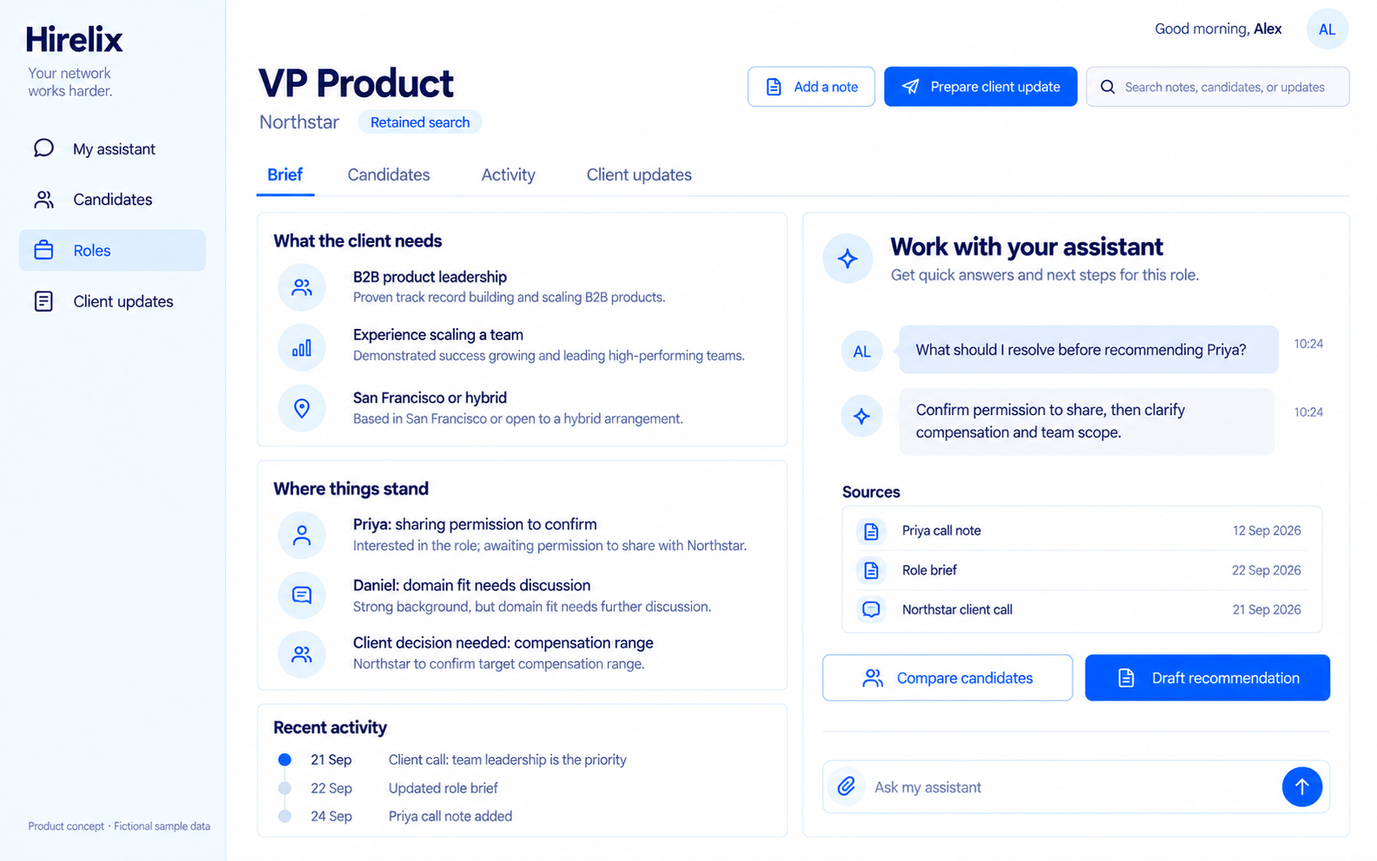
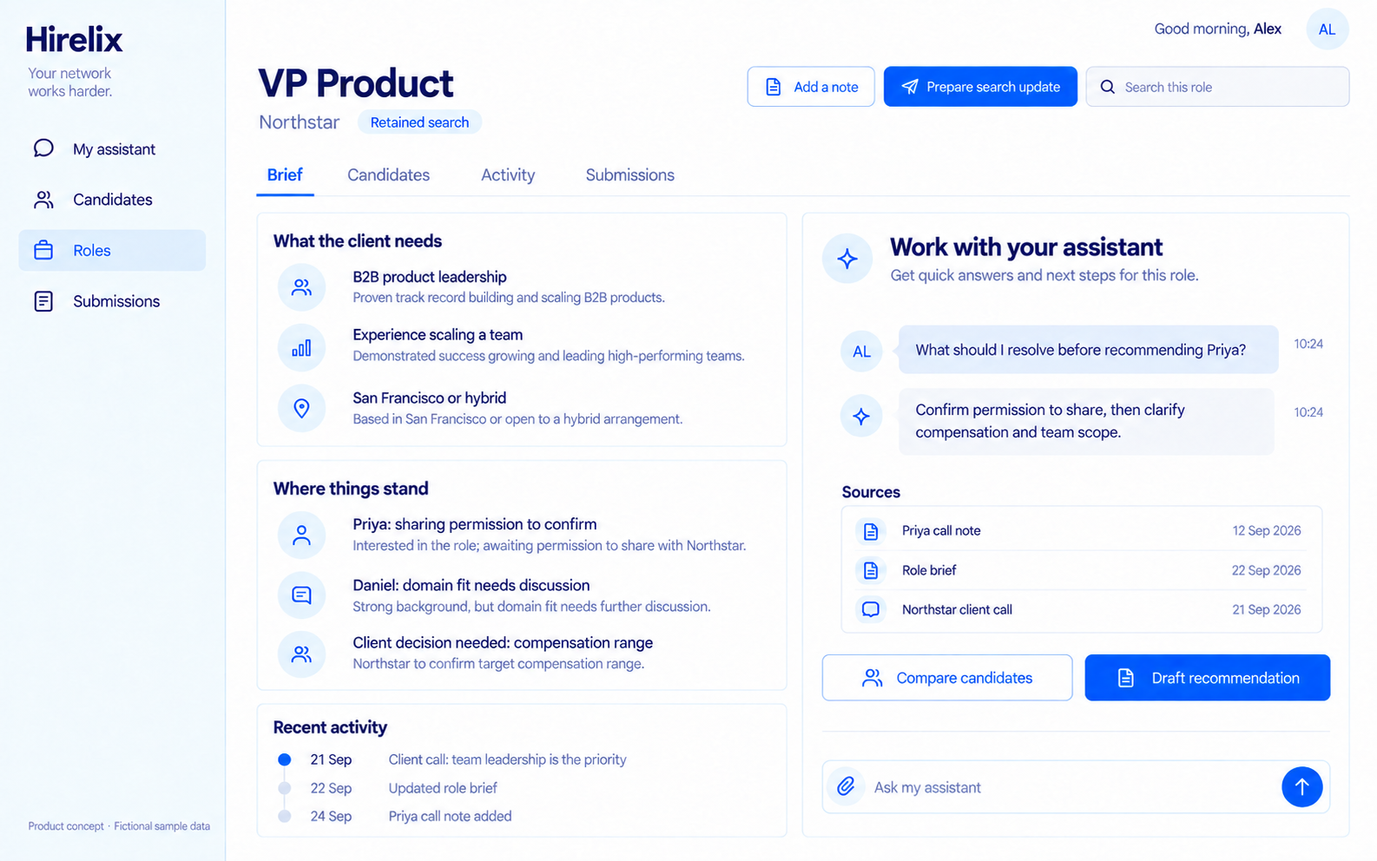
明确候选人推荐入口与职位进展汇报归属

diff --git a/docs/product/overseas-recruiter-agent-v1/index.html b/docs/product/overseas-recruiter-agent-v1/index.html
@@ -1,11 +1,11 @@
 <!doctype html><html lang="zh-CN"><head><meta charset="UTF-8"><meta name="viewport" content="width=device-width, initial-scale=1"><title>Hirelix 产品说明书 · 专业猎头的私人 Agent</title><style>
 :root{--navy:#12213b;--blue:#145cff;--muted:#5a6c84;--line:#dfe7f1;--canvas:#f4f7fb}*{box-sizing:border-box}html{scroll-behavior:smooth;scroll-padding-top:28px}body{margin:0;color:var(--navy);background:var(--canvas);font:16px/1.9 -apple-system,BlinkMacSystemFont,"Segoe UI","PingFang SC","Microsoft YaHei",sans-serif}a{color:var(--blue);text-underline-offset:3px;overflow-wrap:anywhere}nav{position:fixed;inset:0 auto 0 0;width:282px;background:#fff;border-right:1px solid var(--line);padding:26px 22px;overflow:auto}nav .brand{font-size:27px;font-weight:750;letter-spacing:-1px;margin-bottom:4px}nav .edition{font-size:12px;color:var(--muted);margin-bottom:22px}nav a{display:block;color:#4c5f7c;font-size:12.5px;padding:6px 8px;border-radius:7px;text-decoration:none;line-height:1.65}nav a:hover,nav a:focus{background:#edf3ff;color:var(--blue)}main{margin-left:282px;padding:38px 36px 80px}article{max-width:1060px;margin:auto;background:white;border:1px solid var(--line);border-radius:18px;padding:48px 56px;box-shadow:0 8px 32px #16284906}h1{font-size:38px;letter-spacing:-1.3px;line-height:1.25;margin:4px 0 12px}h2{font-size:24px;line-height:1.5;margin:52px 0 18px;padding-top:26px;border-top:1px solid var(--line);font-weight:700}h1+h2{margin:0 0 20px;padding:0;border:0;font-size:26px;color:var(--blue)}h3{font-size:18px;margin-top:28px}p{margin:12px 0 18px}ul,ol{padding-left:26px}li{margin:9px 0}strong{font-weight:650}.table-scroll{overflow:auto;margin:22px 0}table{border-collapse:collapse;width:100%;font-size:13.5px;line-height:1.75}th,td{text-align:left;vertical-align:top;border-bottom:1px solid var(--line);padding:12px 14px;min-width:110px}th{background:#edf3ff;font-weight:650}tr:nth-child(even){background:#fbfcff}.image-link{display:block;text-decoration:none;margin:24px 0 30px}.image-link img{display:block;width:100%;height:auto;border:1px solid var(--line);border-radius:10px}.image-link span{display:block;color:var(--muted);text-align:right;font-size:12px;margin-top:6px}code{font-size:.92em;background:#f1f5fc;border-radius:4px;padding:2px 5px}.mobile-toc{display:none}footer{max-width:1060px;margin:24px auto 0;color:var(--muted);font-size:12px}@media(min-width:1600px){article{max-width:1160px}}@media(max-width:1000px){nav{width:228px;padding:22px 15px}main{margin-left:228px;padding:24px 20px}article{padding:34px 30px}}@media(max-width:760px){nav{display:none}main{margin:0;padding:12px}.mobile-toc{display:block;background:white;padding:14px 18px;border:1px solid var(--line);border-radius:10px;margin-bottom:12px}.mobile-toc a{display:block;font-size:13px;padding:5px}article{padding:24px 20px;border-radius:12px;font-size:15px}h1{font-size:29px}h2{font-size:21px;scroll-margin-top:16px}th,td{min-width:140px;padding:10px}.image-link{margin-left:-10px;margin-right:-10px}}@media print{nav,.mobile-toc,.image-link span,footer{display:none}main{margin:0;padding:0}article{border:0;box-shadow:none;padding:0;max-width:none}h2{break-before:page}h1+h2{break-before:auto}table{font-size:10pt}tr,img{break-inside:avoid}body{font-size:11pt;background:white}}
-</style></head><body><nav aria-label="文档目录"><div class="brand">Hirelix</div><div class="edition">产品说明书 · V1.0 · 2026-09-24<br>专业猎头的私人 Agent</div><a href="#section-01">01. 产品决定与价值主张</a><a href="#section-02">02. 目标用户与选择依据</a><a href="#section-03">03. 调研依据与产品推论</a><a href="#section-04">04. 定位、命名与语言规范</a><a href="#section-05">05. 一条完整的使用过程</a><a href="#section-06">06. 产品结构与主要入口</a><a href="#section-07">07. 页面一：My assistant</a><a href="#section-08">08. 页面二：Candidates</a><a href="#section-09">09. 页面三：Roles</a><a href="#section-10">10. 页面四：Candidate submission</a><a href="#section-11">11. 页面五：Search update</a><a href="#section-12">12. 页面六：Import review</a><a href="#section-13">13. 三项核心能力的需求清单</a><a href="#section-14">14. Agent 应如何工作</a><a href="#section-15">15. 数据对象与关系</a><a href="#section-16">16. 检索、证据与长期积累</a><a href="#section-17">17. 客户交付的两个英文样例</a><a href="#section-18">18. 导入、集成与日常使用负担</a><a href="#section-19">19. 私人数据、分享与可靠性</a><a href="#section-20">20. 通知与定期准备</a><a href="#section-21">21. 视觉、响应式与可访问性</a><a href="#section-22">22. 当前实现与目标体验的差距</a><a href="#section-23">23. 实施顺序与范围边界</a><a href="#section-24">24. 验收场景与质量要求</a><a href="#section-25">25. 成功指标与商业表达</a><a href="#section-26">26. 尚需决定的事项</a><a href="#section-27">27. 来源、版本与使用说明</a></nav><main><details class="mobile-toc"><summary>打开目录 · 27 个章节</summary><a href="#section-01">01. 产品决定与价值主张</a><a href="#section-02">02. 目标用户与选择依据</a><a href="#section-03">03. 调研依据与产品推论</a><a href="#section-04">04. 定位、命名与语言规范</a><a href="#section-05">05. 一条完整的使用过程</a><a href="#section-06">06. 产品结构与主要入口</a><a href="#section-07">07. 页面一：My assistant</a><a href="#section-08">08. 页面二：Candidates</a><a href="#section-09">09. 页面三：Roles</a><a href="#section-10">10. 页面四：Candidate submission</a><a href="#section-11">11. 页面五：Search update</a><a href="#section-12">12. 页面六：Import review</a><a href="#section-13">13. 三项核心能力的需求清单</a><a href="#section-14">14. Agent 应如何工作</a><a href="#section-15">15. 数据对象与关系</a><a href="#section-16">16. 检索、证据与长期积累</a><a href="#section-17">17. 客户交付的两个英文样例</a><a href="#section-18">18. 导入、集成与日常使用负担</a><a href="#section-19">19. 私人数据、分享与可靠性</a><a href="#section-20">20. 通知与定期准备</a><a href="#section-21">21. 视觉、响应式与可访问性</a><a href="#section-22">22. 当前实现与目标体验的差距</a><a href="#section-23">23. 实施顺序与范围边界</a><a href="#section-24">24. 验收场景与质量要求</a><a href="#section-25">25. 成功指标与商业表达</a><a href="#section-26">26. 尚需决定的事项</a><a href="#section-27">27. 来源、版本与使用说明</a></details><article><h1>Hirelix 产品说明书</h1>
+</style></head><body><nav aria-label="文档目录"><div class="brand">Hirelix</div><div class="edition">产品说明书 · V1.1 · 2026-09-24<br>专业猎头的私人 Agent</div><a href="#section-01">01. 产品决定与价值主张</a><a href="#section-02">02. 目标用户与选择依据</a><a href="#section-03">03. 调研依据与产品推论</a><a href="#section-04">04. 定位、命名与语言规范</a><a href="#section-05">05. 一条完整的使用过程</a><a href="#section-06">06. 产品结构与主要入口</a><a href="#section-07">07. 页面一：My assistant</a><a href="#section-08">08. 页面二：Candidates</a><a href="#section-09">09. 页面三：Roles</a><a href="#section-10">10. 页面四：Candidate submission</a><a href="#section-11">11. 页面五：Search update</a><a href="#section-12">12. 页面六：Import review</a><a href="#section-13">13. 三项核心能力的需求清单</a><a href="#section-14">14. Agent 应如何工作</a><a href="#section-15">15. 数据对象与关系</a><a href="#section-16">16. 检索、证据与长期积累</a><a href="#section-17">17. 客户交付的两个英文样例</a><a href="#section-18">18. 导入、集成与日常使用负担</a><a href="#section-19">19. 私人数据、分享与可靠性</a><a href="#section-20">20. 通知与定期准备</a><a href="#section-21">21. 视觉、响应式与可访问性</a><a href="#section-22">22. 当前实现与目标体验的差距</a><a href="#section-23">23. 实施顺序与范围边界</a><a href="#section-24">24. 验收场景与质量要求</a><a href="#section-25">25. 成功指标与商业表达</a><a href="#section-26">26. 尚需决定的事项</a><a href="#section-27">27. 来源、版本与使用说明</a></nav><main><details class="mobile-toc"><summary>打开目录 · 27 个章节</summary><a href="#section-01">01. 产品决定与价值主张</a><a href="#section-02">02. 目标用户与选择依据</a><a href="#section-03">03. 调研依据与产品推论</a><a href="#section-04">04. 定位、命名与语言规范</a><a href="#section-05">05. 一条完整的使用过程</a><a href="#section-06">06. 产品结构与主要入口</a><a href="#section-07">07. 页面一：My assistant</a><a href="#section-08">08. 页面二：Candidates</a><a href="#section-09">09. 页面三：Roles</a><a href="#section-10">10. 页面四：Candidate submission</a><a href="#section-11">11. 页面五：Search update</a><a href="#section-12">12. 页面六：Import review</a><a href="#section-13">13. 三项核心能力的需求清单</a><a href="#section-14">14. Agent 应如何工作</a><a href="#section-15">15. 数据对象与关系</a><a href="#section-16">16. 检索、证据与长期积累</a><a href="#section-17">17. 客户交付的两个英文样例</a><a href="#section-18">18. 导入、集成与日常使用负担</a><a href="#section-19">19. 私人数据、分享与可靠性</a><a href="#section-20">20. 通知与定期准备</a><a href="#section-21">21. 视觉、响应式与可访问性</a><a href="#section-22">22. 当前实现与目标体验的差距</a><a href="#section-23">23. 实施顺序与范围边界</a><a href="#section-24">24. 验收场景与质量要求</a><a href="#section-25">25. 成功指标与商业表达</a><a href="#section-26">26. 尚需决定的事项</a><a href="#section-27">27. 来源、版本与使用说明</a></details><article><h1>Hirelix 产品说明书</h1>
 <h2>专业猎头的私人 Agent</h2>
-<p>版本：1.0 ｜ 日期：2026-09-24 ｜ 文档性质：产品方向与目标体验规格</p>
+<p>版本：1.1 ｜ 日期：2026-09-24 ｜ 文档性质：产品方向与目标体验规格</p>
 <p>对外英文表达：<strong>Your private AI assistant. Built for headhunters.</strong></p>
 <p>本文面向产品、设计和开发协作。页面采用英文，服务海外专业猎头；说明采用中文。页面示意图均为 AI 生成的产品概念图，人物、公司、记录、数字和情境均为虚构。图中功能不代表当前版本已经具备。详细事实规则、字段含义与验收要求以本文为准。</p>
-<p>本版本承接已经确认的三个方向：长期沉淀候选人、围绕 JD 持续推进工作、向甲方交付候选人推荐与定期搜寻进展。产品定位固定为专业猎头的私人 Agent。用户界面使用 Candidates、Roles、Client updates 等业务词汇。</p>
+<p>本版本承接已经确认的三个方向：长期沉淀候选人、围绕 JD 持续推进工作、向甲方交付候选人推荐与定期搜寻进展。产品定位固定为专业猎头的私人 Agent。主导航使用 My assistant、Candidates、Roles、Submissions；职位进展汇报在对应 Role 内准备与查阅。</p>
 <h2 id="section-01">01. 产品决定与价值主张</h2>
 <p>Hirelix 为一名专业猎头持续工作：理解他积累的候选人资料、客户要求和沟通记录，帮助他重新找到值得考虑的人、理解每个职位的当前情况，并准备交给客户的材料。</p>
 <p>猎头向 Hirelix 交付的不是一张需要每天维护的状态表，而是已有的工作材料和新的工作事实，例如简历、客户发来的 JD、一次通话笔记、一封反馈邮件。Agent 将这些材料联系起来，提出具体判断，完成可审阅的成果，并把后续反馈用于下一次工作。</p>
@@ -136,19 +136,19 @@
 <td>JD、客户需求、候选人、活动与客户材料</td>
 </tr>
 <tr>
-<td>面向客户的材料</td>
-<td>Client updates</td>
-<td>候选人推荐和搜寻进展更新的统一入口</td>
+<td>候选人推荐主栏目</td>
+<td>Submissions</td>
+<td>推荐草稿、已提交人选与客户反馈的统一入口</td>
 </tr>
 <tr>
-<td>单人或多人推荐</td>
+<td>单人或多人推荐编辑页</td>
 <td>Candidate submission</td>
 <td>始终关联具体客户和职位</td>
 </tr>
 <tr>
-<td>定期或即时进展汇报</td>
+<td>职位内的进展汇报</td>
 <td>Search update</td>
-<td>明确报告期间与待客户决定的事项</td>
+<td>在对应 Role 内生成，明确报告期间与待客户决定的事项</td>
 </tr>
 <tr>
 <td>客户需求说明</td>
@@ -157,6 +157,7 @@
 </tr>
 </tbody></table></div>
 <p>不把 Recruiting agent 用作本产品类别；不把 Talent memory、人才记忆、长期上下文等系统内部概念作为栏目名称。避免全局“好候选人”、无证据的“已验证”、未确认的“随时可入职”，以及把工具调用数量包装成业务进展。</p>
+<p>主栏目 Submissions 表达“把候选人推荐给客户”这项工作；首次进入的页面标题使用 Candidate submissions，说明文字为 “Prepare candidate submissions and track client feedback.”。Search update 从职位页的 Prepare search update 发起，历史保留在该职位的 Activity 中。</p>
 <p>英文是首个主要界面语言。用户输入、输出草稿语言可以单独选择；候选人原始资料保留原文。跨语言整理应保留职位名称、公司名、货币和日期，不随意翻译成不同含义。</p>
 <h2 id="section-05">05. 一条完整的使用过程</h2>
 <p>以下为目标体验示例，人物与数据均为虚构。</p>
@@ -165,8 +166,8 @@
 <li>Northstar 发来 VP Product 的 JD。Alex 新建 Role，补充客户通话记录：团队建设是首要任务，地点可接受混合办公，薪酬尚未确认。</li>
 <li>Alex 问“以前接触过的人里，谁值得重新聊一下？”Agent 检索候选人库，结合具体职位返回理由、来源和缺口。</li>
 <li>Alex 与 Priya 通话后记录实际内容。Agent 将团队管理经历补入候选人资料，同时记录她对 Northstar 这个职位的态度；没有把这次态度扩展成她对所有机会的兴趣。</li>
-<li>Alex 要求“写一份给 Northstar 的推荐稿”。Agent 生成依据职位组织的材料，明确哪些信息已具备、哪些需要补充。Alex 决定修改、补充、导出或稍后再用。</li>
-<li>到客户约定的更新日，Agent 根据报告期间的实际活动准备 Search update。若没有正式提交新候选人，直接说明，同时列出需要客户确认的薪酬和下一步。</li>
+<li>Alex 要求“写一份给 Northstar 的推荐稿”。Agent 生成依据职位组织的材料，保存到 Submissions 并关联这个职位。Alex 决定修改、补充、导出或稍后再用。</li>
+<li>到客户约定的更新日，Agent 在该 Role 内准备 Search update。若没有正式提交新候选人，直接说明，同时列出需要客户确认的薪酬和下一步。</li>
 <li>客户反馈更看重团队建设而非行业完全匹配。Alex 保存反馈；职位要求出现新版本，相关人选判断可以重新检查，既有报告保留当时依据。</li>
 <li>职位结束后，资料与关系记录仍然存在。下一份 JD 可以再次使用这些信息，不需要重新创建同一个人。</li>
 </ol>
@@ -196,21 +197,21 @@
 <tr>
 <td>Roles</td>
 <td>这个职位目前是什么情况？</td>
-<td>新建 JD、查看要求、记录反馈、比较人选</td>
-<td>职位详情与清楚的下一步</td>
+<td>保存 JD、记录反馈、比较人选、准备进展汇报</td>
+<td>职位详情、下一步与汇报历史</td>
 </tr>
 <tr>
-<td>Client updates</td>
-<td>我要给客户什么？上次说过什么？</td>
-<td>推荐、更新、编辑、预览、导出、记录交付</td>
-<td>有版本和来源的客户材料</td>
+<td>Submissions</td>
+<td>向哪位客户推荐了谁？反馈如何？</td>
+<td>准备推荐、编辑、预览、导出、记录提交与反馈</td>
+<td>推荐草稿、已提交人选与反馈</td>
 </tr>
 </tbody></table></div>
-<p>My assistant 是横跨以上内容的工作入口。Candidates、Roles 和 Client updates 是稳定可访问的工作对象，用户不需要在长聊天中翻找唯一副本。每个详情页都能对当前对象继续发问。</p>
+<p>My assistant 是横跨以上内容的工作入口。Candidates、Roles 和 Submissions 提供可直接访问的档案、职位和推荐记录。Search update 归属对应 Role；从对话生成后也能回到职位找到原稿。每个详情页都能对当前对象继续发问。</p>
 <h2 id="section-07">07. 页面一：My assistant</h2>
 <p><a class="image-link" href="images/01-assistant-home.png" target="_blank" rel="noopener"><img src="images/01-assistant-home.png" alt="图 1：私人助理首页概念图" loading="lazy"><span>查看完整原图 ↗</span></a></p>
 <p><strong>页面目的。</strong> 让猎头用一句话开始或恢复工作。视觉主角是当前问题与结果，而非大量运营数字。</p>
-<p><strong>布局。</strong> 左侧为固定导航；中间是可选择上下文的对话和成果区；右侧提供最近使用的候选人、职位和需要用户查看的材料。快捷入口使用 Find someone I know、Review a role、Prepare an update 等动作表达。</p>
+<p><strong>布局。</strong> 左侧为固定导航；中间是可选择上下文的对话和成果区；右侧提供最近使用的候选人、职位和需要用户查看的材料。快捷入口使用 Find someone I know、Review a role、Recommend a candidate 等动作表达。</p>
 <p><strong>主要交互。</strong> 用户可以明确选择 Role、Candidate，也可以自然提及姓名或客户名。存在重名或多个同名职位时，Agent 先列出具体对象供选择。附加的文件先展示名称、识别情况和将关联的位置，再写入对应对象。</p>
 <p>回答中出现的候选人可直接打开档案；提到的证据可定位原文或笔记；生成的推荐稿可打开独立编辑页。对话内容不能仅以自由文本存在而使后续无法访问成果。</p>
 <p><strong>状态要求。</strong> 首次空白页提供“导入候选人”和“添加一个职位”；没有足够资料时说明缺什么；生成中显示正在读取哪类资料；失败后保留原问题和附件，提供重试；恢复页面时保留已完成结果，不能把仍在运行的任务表现为消失。</p>
@@ -247,21 +248,23 @@
 </tr>
 <tr>
 <td>Activity</td>
-<td>实际发生的通话、反馈、资料变更、交付记录</td>
-<td>添加记录、修正时间、查来源</td>
+<td>通话、反馈、资料变更、进展汇报草稿与交付记录</td>
+<td>添加记录、查来源、按 Search updates 筛选汇报历史</td>
 </tr>
 <tr>
-<td>Client updates</td>
-<td>本职位的推荐稿与进展更新</td>
-<td>编辑、预览、复制、导出、查看历史</td>
+<td>Submissions</td>
+<td>本职位的推荐草稿、已提交人选与客户反馈</td>
+<td>编辑、预览、导出、记录提交与反馈</td>
 </tr>
 </tbody></table></div>
+<p>职位页提供 Prepare search update 按钮，直接打开带有本职位上下文的进展汇报编辑页。该页侧栏选中 Roles；返回路径为 Roles / 职位 / Search update。草稿在 Activity 中明确显示 Draft，不计为已交付事件。</p>
 <p>“工作进度”是对真实工作事实的概括。例如“等待客户确认薪酬”“Priya 尚需确认分享意愿”。生成一段文字不等于完成了联系，保存一份草稿不等于推荐已提交。</p>
 <p>Agent 可从材料中提出下一步建议；猎头仍能直接编辑和标记事实。无需为了出现进度而强迫用户维护固定招聘漏斗。确实发生的面试或 offer 事件可以记录，但第一版不承担企业 ATS 的流程审批。</p>
 <p><strong>验收。</strong> 新客户反馈使要求发生变化时，只重新检查本职位相关判断；没有新证据时不得自动推进候选人；暂停的职位不再持续准备周期草稿；结束职位仍可查历史。</p>
 <h2 id="section-10">10. 页面四：Candidate submission</h2>
 <p><a class="image-link" href="images/04-candidate-submission.png" target="_blank" rel="noopener"><img src="images/04-candidate-submission.png" alt="图 4：候选人推荐稿概念图" loading="lazy"><span>查看完整原图 ↗</span></a></p>
 <p><strong>页面目的。</strong> 将一个具体人选针对一个具体职位的推荐材料组织好，供猎头审阅和使用。可以单人推荐，也可以合并若干名已经由猎头选定的人；人数不预设为固定三个。</p>
+<p><strong>入口与列表。</strong> 主导航 Submissions 打开 Candidate submissions 列表，按客户、职位或候选人查找，可查看 Drafts 与 Submitted。记录展示人选、客户、职位、实际提交时间和已记录反馈；编辑页与职位内 Submissions 使用同一份记录。空列表提供 Prepare candidate submission，并解释需选择职位和人选。</p>
 <p><strong>输入。</strong> 已选 Role、已选 Candidate、CV 和有关笔记、推荐时点、客户阅读偏好、猎头补充说明。未选择职位时可以先写个人简介，但不能叫“对该职位的推荐判断”。</p>
 <p><strong>默认结构。</strong> 候选人身份与当前情况；为什么值得考虑；对应职位的具体经历与证据；需要讨论或核实的点；已经确认的意愿与条件；附件与下一步。缺乏依据的形容词不能代替经历。</p>
 <p><strong>编辑方式。</strong> 用户可直接改正文，也可要求 Agent 缩短、调整顺序、改语气或补充某个有来源的点。改稿应保留原版本并说明重要事实是否改变。改成“更积极”不能把未知意向改成“积极寻求新机会”。</p>
@@ -269,7 +272,7 @@
 <p><strong>交付。</strong> 首先提供复制和 PDF/DOCX 导出；导出不等于已经发送。未来邮件连接可增加发送能力，但需要用户明确选定收件人、内容和附件。候选人的分享范围未确认时，保留草稿，并把未确认点呈现给猎头；不得生成“已取得同意”的句子。</p>
 <h2 id="section-11">11. 页面五：Search update</h2>
 <p><a class="image-link" href="images/05-search-update.png" target="_blank" rel="noopener"><img src="images/05-search-update.png" alt="图 5：客户搜寻进展更新概念图" loading="lazy"><span>查看完整原图 ↗</span></a></p>
-<p><strong>页面目的。</strong> 根据一个职位的实际工作记录，准备一段时间内给客户的进展说明。时间范围应明确，并与上一次真实交付的内容衔接。</p>
+<p><strong>页面目的。</strong> 在 Roles 内，根据一个职位的实际工作记录，准备一段时间内给客户的进展说明。时间范围应明确，并与上一次真实交付的内容衔接。主导航选中 Roles，页面提供返回该职位的路径。</p>
 <p><strong>触发。</strong> 用户随时要求生成；或为这个职位设定每周、每两周、某个工作日的草稿准备时间。周期以职位为单位，可暂停；客户不需要周期汇报时不用设置。</p>
 <div class="table-scroll"><table>
 <thead>
@@ -390,13 +393,13 @@
 <td>O01</td>
 <td>单人/多人的推荐草稿</td>
 <td>首个可用版本</td>
-<td>根据选定人选生成，不自动凑人数</td>
+<td>Submissions 汇总草稿、提交记录与反馈，不自动凑人数</td>
 </tr>
 <tr>
 <td>O02</td>
 <td>按时间范围的搜寻进展草稿</td>
 <td>首个可用版本</td>
-<td>基于记录说明变化、卡点和下一步</td>
+<td>从 Role 发起并保留历史，基于记录说明变化与下一步</td>
 </tr>
 <tr>
 <td>O03</td>
@@ -639,7 +642,7 @@ Alex</p>
 <tr>
 <td>产品文案</td>
 <td>仍有旧栏目命名</td>
-<td>按本书 My assistant / Candidates / Roles / Client updates 统一</td>
+<td>My assistant / Candidates / Roles / Submissions；进展汇报在 Role 内</td>
 </tr>
 </tbody></table></div>
 <p>本产品说明书和示意图是本次交付范围；它们不等于以上补充功能已经被实现。本次不修改应用业务代码，也不执行生产迁移或部署。</p>
@@ -854,5 +857,5 @@ Alex</p>
 <p>所有网页访问日期：2026-09-24。正文的产品范围、页面设计、数据关系、验收要求和实施顺序由本次产品讨论形成，不是上述来源的原文或行业标准。</p>
 <p>本地代码参考：src/lib/private-agent.ts、src/app/(product)/app/、src/app/(product)/api/agent/、docs/product/private-agent/README.md；核对基线 eea54c0。前版图片和命名未作为本书目标文案。</p>
 <p>本包包含完整说明书、离线 HTML 阅读版、PDF 阅读版、六张页面示意原图与生成提示词。PDF 和 HTML 为阅读产物；Markdown 为可编辑原稿。页面图用于理解布局、信息层级和交互意图，具体字段与逻辑以文字规格为准。</p>
-<p>版本记录：v1.0，首次完整产品说明。纳入用户对定位的纠正：专业猎头的私人 Agent；外部界面不用 Recruiting agent 或 Talent memory；客户材料分为即时候选人推荐与按约定准备的进展更新。</p>
+<p>版本记录：v1.0，首次完整产品说明，定位为专业猎头的私人 Agent。v1.1，明确候选人推荐入口为 Submissions，将 Search update 归入对应 Role；同步首页动作、页面示意图、列表说明与验收要求。</p>
 </article><footer>离线阅读版。页面为概念示意，具体要求以文字规格为准。点击图片可查看独立原图。</footer></main></body></html>

diff --git a/docs/product/overseas-recruiter-agent-v1/image-prompts.md b/docs/product/overseas-recruiter-agent-v1/image-prompts.md
@@ -1,6 +1,6 @@
 # 页面图片生成记录
 
-生成日期：2026-09-24。方式：Codex 内置 `image_gen`，未使用 CLI/API fallback。最终图片共 6 张，PNG，均为 1586 × 992 像素。以下记录最终采用版本的提示词；用到的参考图只用于维持布局、颜色与字体风格。
+生成日期：2026-09-24。方式：Codex 内置 `image_gen`，未使用 CLI/API fallback。最终图片共 6 张，PNG，均为 1586 × 992 像素。以下记录底稿生成提示词与 v1.1 最终编辑提示词。最终编辑统一采用 Submissions 主栏目，Search update 归入 Roles；底稿中的旧栏目名称仅用于记录修改前的输入。
 
 图中文字为虚构业务情境的视觉演示，不可视为真实候选人资料或产品运行证据。具体字段、逻辑和文案以 `product-spec.md` 为准。已弃用的 Recruiting agent / Talent memory 版本未收录。
 
@@ -12,12 +12,28 @@
 Use case ui-mockup. NEW Hirelix home page, a PERSONAL PRIVATE AI ASSISTANT FOR PROFESSIONAL HEADHUNTERS. Use the reference solely for matching brand, white/pale-blue/navy/cobalt palette, typography and sidebar proportions. Flat 16:10 landscape screenshot. Sidebar exactly My assistant / Candidates / Roles / Client updates, My assistant selected. Eyebrow 'BUILT FOR HEADHUNTERS'. Heading exactly 'Your private AI assistant'. Subtitle 'Your candidates, assignments and client conversations, in one place.' Three action cards 'Find someone I know', 'Review a role', 'Prepare an update'. Dominant main chat: user asks 'Who should I revisit for Northstar’s VP Product role?' Answer shows ONE candidate Priya Desai with role exactly 'Product Leader · Ledgerly', reason exactly 'Your call note describes leading a product team of 18 and B2B product experience.' Source label 'Call note · 12 Sep 2026'. Second short paragraph exactly 'Confirm permission to share and compensation expectations before preparing a client introduction.' Right column 'Your work at a glance', candidates Priya Desai / Product Leader · Ledgerly and Daniel Kim / Product Manager · Finovo. Active role VP Product / Northstar. Small context card 'Client decision needed: compensation range'. Bottom input 'Ask about a candidate, role or client…' with context chip 'VP Product · Northstar'. Never use recruiting agent, talent memory, memory, ATS, pipeline. No stale 2023/2024 dates, no other candidate employers, no invented readiness. Footer 'Product concept · Fictional sample data'. Crisp natural English and calm professional UI.
 ```
 
+### v1.1 最终编辑
+
+编辑对象：本节所述底稿页面。最终文件保持本节文件名。使用内置 image_gen 进行以下修改：
+
+```text
+Use case: text-localization. Edit target: the supplied Hirelix product concept screenshot. Preserve the existing image size, flat screenshot layout, brand, typography, palette, icons, people, dates, facts, body text, footer and all unchanged UI. This is a precise naming and navigation correction. In the left sidebar replace exactly 'Client updates' with 'Submissions', preserving that item's icon and its original text style. Never show 'Client updates' anywhere. Keep all existing side navigation labels 'My assistant', 'Candidates', 'Roles' unchanged. Keep footer 'Product concept · Fictional sample data'. Keep My assistant selected. In the third top action card replace heading 'Prepare an update' with 'Recommend a candidate'. Replace its supporting sentence with 'Prepare a candidate submission for your client.' All other content unchanged.
+```
+
 ## 02 · Candidates
 
 文件：`images/02-candidates.png`。视觉参考：同系列前一版私人助理页面，仅参考设计系统；最终首页已更新以统一人名与经历。
 
 ```text
 Use case: ui-mockup. NEW Hirelix page using attached image ONLY as brand/layout reference. High-fidelity flat 16:10 landscape desktop SaaS screenshot, white/light-blue/navy/cobalt, precise English typography. Sidebar must read exactly 'My assistant', 'Candidates', 'Roles', 'Client updates'; active Candidates. Main title exactly 'Your candidates'. Subtitle 'Keep the people, conversations and context that matter.' Top actions 'Import CVs', 'Add a candidate'; search 'Search names, companies, expertise or notes'. Left section is list of four fictional people with name, role, location, small skill tags and dated 'Last conversation'. Select Priya Desai, product leader in San Francisco. Right detail pane heading 'Priya Desai' with tabs 'Overview', 'Conversations', 'Related roles'. Show sections 'My notes', 'Profile sources', 'What to confirm'. Concise note exactly '12 Sep 2026 · Call note: Led a product team of 18. Interested in learning about the role; sharing permission not yet confirmed.' Separate profile source card 'CV uploaded · 10 Sep 2026'. What to confirm: 'Permission to share with Northstar', 'Compensation expectations'. Bottom button 'Ask my assistant'. No global candidate score. No statuses implying automatically verified facts. NEVER use 'memory', 'talent memory', 'recruiting agent', 'recruiting intelligence' anywhere. No photos, no browser/device frame. Small footer 'Product concept · Fictional sample data'. Professional, readable and understated.
+```
+
+### v1.1 最终编辑
+
+编辑对象：本节所述底稿页面。最终文件保持本节文件名。使用内置 image_gen 进行以下修改：
+
+```text
+Use case: text-localization. Edit target: the supplied Hirelix product concept screenshot. Preserve the existing image size, flat screenshot layout, brand, typography, palette, icons, people, dates, facts, body text, footer and all unchanged UI. This is a precise naming and navigation correction. In the left sidebar replace exactly 'Client updates' with 'Submissions', preserving that item's icon and its original text style. Never show 'Client updates' anywhere. Keep all existing side navigation labels 'My assistant', 'Candidates', 'Roles' unchanged. Keep footer 'Product concept · Fictional sample data'. Only change the sidebar label. Keep Candidates selected. Keep the entire candidates list and Priya detail pane unchanged.
 ```
 
 ## 03 · Role workspace
@@ -28,12 +44,28 @@ Use case: ui-mockup. NEW Hirelix page using attached image ONLY as brand/layout 
 Use case ui-mockup. NEW Hirelix 'Roles' page in the same exact design system as the reference: calm white/light-blue/navy/cobalt, sidebar, flat 16:10 landscape desktop screenshot. Sidebar labels 'My assistant', 'Candidates', 'Roles', 'Client updates'; Roles selected. Main title 'VP Product' with client 'Northstar' and small label 'Retained search'. Tabs 'Brief', 'Candidates', 'Activity', 'Client updates'; Brief selected. Primary header actions 'Add a note', 'Prepare client update'. Main column contains card 'What the client needs' with 3 short requirements: 'B2B product leadership', 'Experience scaling a team', 'San Francisco or hybrid'. Next card 'Where things stand' with 'Priya: sharing permission to confirm', 'Daniel: domain fit needs discussion', 'Client decision needed: compensation range'. Bottom activity timeline '21 Sep · Client call: team leadership is the priority', '22 Sep · Updated role brief', '24 Sep · Priya call note added'. Right column titled 'Work with your assistant' with conversational message 'What should I resolve before recommending Priya?' and concise answer 'Confirm permission to share, then clarify compensation and team scope.' Buttons 'Compare candidates', 'Draft recommendation'. Show clear source chips and timestamps. No kanban pipeline, fake success metrics, global fit score or auto-send. Never say 'memory', 'talent memory' or 'recruiting agent'. Keep text concise, professional and legible. Footer 'Product concept · Fictional sample data'.
 ```
 
+### v1.1 最终编辑
+
+编辑对象：本节所述底稿页面。最终文件保持本节文件名。使用内置 image_gen 进行以下修改：
+
+```text
+Use case: text-localization. Edit target: the supplied Hirelix product concept screenshot. Preserve the existing image size, flat screenshot layout, brand, typography, palette, icons, people, dates, facts, body text, footer and all unchanged UI. This is a precise naming and navigation correction. In the left sidebar replace exactly 'Client updates' with 'Submissions', preserving that item's icon and its original text style. Never show 'Client updates' anywhere. Keep all existing side navigation labels 'My assistant', 'Candidates', 'Roles' unchanged. Keep footer 'Product concept · Fictional sample data'. Keep Roles selected. Replace the content tab 'Client updates' with 'Submissions'. Replace top button 'Prepare client update' with 'Prepare search update'. Replace top search placeholder 'Search notes, candidates, or updates' with 'Search this role'. Keep the rest of the role brief and assistant interaction unchanged.
+```
+
 ## 04 · Candidate submission
 
 文件：`images/04-candidate-submission.png`。视觉参考：`images/03-role-workspace.png`。
 
 ```text
 Use case ui-mockup. New Hirelix 'Candidate submission' desktop screen. Same white, pale blue, navy and cobalt design as reference. 16:10 landscape flat screenshot. Navigation exactly: My assistant / Candidates / Roles / Client updates. Client updates selected. Heading 'Candidate submission' with 'Northstar · VP Product' and badge 'Draft · Not shared'. Center a clean document titled 'Priya Desai', subtitle 'Product Leader · Ledgerly · San Francisco'. Sections 'Why consider Priya', 'Relevant experience', 'Points to discuss'. Concise evidence: led product team of 18; B2B product experience. Missing facts: compensation and role scope to confirm. Cite 'CV · 10 Sep 2026' and 'Call note · 12 Sep 2026'. Right assistant revision panel with message 'Make this shorter and lead with team leadership.' A small reminder 'Permission to share with Northstar needs confirmation'. Header actions Save draft / Preview. No Send button. Never use the words memory, recruiting agent, talent memory, weekly brief. No invented confirmed interest. Footer 'Product concept · Fictional sample data'. All UI text natural English, sharp and readable, beautiful restrained B2B layout.
+```
+
+### v1.1 最终编辑
+
+编辑对象：本节所述底稿页面。最终文件保持本节文件名。使用内置 image_gen 进行以下修改：
+
+```text
+Use case: text-localization. Edit target: the supplied Hirelix product concept screenshot. Preserve the existing image size, flat screenshot layout, brand, typography, palette, icons, people, dates, facts, body text, footer and all unchanged UI. This is a precise naming and navigation correction. In the left sidebar replace exactly 'Client updates' with 'Submissions', preserving that item's icon and its original text style. Never show 'Client updates' anywhere. Keep all existing side navigation labels 'My assistant', 'Candidates', 'Roles' unchanged. Keep footer 'Product concept · Fictional sample data'. Submissions must remain the selected sidebar item, in the same highlighted position as previous Client updates. Keep the main title 'Candidate submission' and the draft badge, selected role, document editor, assistant panel, confirmation reminder and Save draft / Preview unchanged.
 ```
 
 ## 05 · Search update
@@ -44,10 +76,26 @@ Use case ui-mockup. New Hirelix 'Candidate submission' desktop screen. Same whit
 Use case ui-mockup. NEW Hirelix page for a periodic client SEARCH PROGRESS UPDATE, not a candidate recommendation. Match reference sidebar and exact calm white/light-blue/navy/cobalt design. 16:10 landscape desktop flat screenshot. Sidebar 'My assistant', 'Candidates', 'Roles', 'Client updates'; Client updates active. Page title 'Search update'; subtitle 'Northstar · VP Product · 21–24 Sep 2026'. Tabs 'Candidate submissions', 'Search updates' with Search updates selected. Top actions 'Save draft', 'Preview'. Main document sections: 'Progress since our last update' with 'Role priorities clarified with the client' and 'Two candidate conversations reviewed'; 'Candidate submissions' with exact sentence 'No new candidates submitted in this period.'; 'Decision needed' with 'Please confirm the compensation range.'; 'Next steps' with 'Confirm Priya’s permission to share' and 'Discuss Daniel’s domain experience'. No invented market counts or activities outside this scenario. Right panel 'Update schedule' with 'Every Friday · 16:00 New York', small text 'Prepare a draft for my review'; another panel 'Ask my assistant' with 'Lead with the decision the client needs to make.' Clearly show draft badge; no Send or automatically-shared status. Footer 'Product concept · Fictional sample data'. Never use memory, recruiting agent, talent memory, weekly brief. Professional natural English text, fine typography, realistic document editing layout.
 ```
 
+### v1.1 最终编辑
+
+编辑对象：本节所述底稿页面。最终文件保持本节文件名。使用内置 image_gen 进行以下修改：
+
+```text
+Use case: text-localization. Edit target: the supplied Hirelix product concept screenshot. Preserve the existing image size, flat screenshot layout, brand, typography, palette, icons, people, dates, facts, body text, footer and all unchanged UI. This is a precise naming and navigation correction. In the left sidebar replace exactly 'Client updates' with 'Submissions', preserving that item's icon and its original text style. Never show 'Client updates' anywhere. Keep all existing side navigation labels 'My assistant', 'Candidates', 'Roles' unchanged. Keep footer 'Product concept · Fictional sample data'. This Search update editor now belongs under the specific ROLE. Highlight ONLY 'Roles' in the left sidebar; Submissions must be unselected. Remove the old horizontal tabs 'Candidate submissions' and 'Search updates'. In their place show a simple breadcrumb line 'Roles / VP Product / Search update' with a small left arrow, without tabs or a tab selection underline. Keep main title 'Search update', subtitle 'Northstar · VP Product · 21–24 Sep 2026', draft badge, complete document content, schedule panel and Save draft / Preview unchanged. This screenshot should clearly read as a role-specific progress report.
+```
+
 ## 06 · Import review
 
 文件：`images/06-import-review.png`。视觉参考：`images/02-candidates.png`。
 
 ```text
 Use case ui-mockup. New Hirelix screen 'Review your import' in same white/light blue/navy/cobalt design and sidebar. 16:10 landscape flat desktop screenshot, English. Sidebar My assistant / Candidates / Roles / Client updates, Candidates selected. Header 'Review your import', subtitle 'Check the records before adding them to your candidates.' Top stepper 'Upload' completed, 'Review' active, 'Finish'. Small summary: '12 records · 9 new · 2 possible matches · 1 needs review'. Main preview table with columns 'Candidate', 'Source', 'Result', 'Action'. Rows Priya Desai, Marcus Tan, Elena Rossi, Daniel Kim, with statuses New, Possible match, Needs review; source tags CV or CSV; action selectors Add new / Merge / Skip. Right panel selected possible duplicate 'Priya Desai' compares 'Existing candidate' and 'Imported CV'; same email noted as match reason, headline difference highlighted without overwriting. Clear text 'Your notes and files will be kept.' Primary bottom action 'Confirm import', secondary 'Back'. Small error note 'One record has no name. Add it or skip this record.' No global quality score. Never say memory, talent memory, recruiting agent. Footer 'Product concept · Fictional sample data'. Natural readable English, careful grid and typography, credible professional software rather than marketing poster.
+```
+
+### v1.1 最终编辑
+
+编辑对象：本节所述底稿页面。最终文件保持本节文件名。使用内置 image_gen 进行以下修改：
+
+```text
+Use case: text-localization. Edit target: the supplied Hirelix product concept screenshot. Preserve the existing image size, flat screenshot layout, brand, typography, palette, icons, people, dates, facts, body text, footer and all unchanged UI. This is a precise naming and navigation correction. In the left sidebar replace exactly 'Client updates' with 'Submissions', preserving that item's icon and its original text style. Never show 'Client updates' anywhere. Keep all existing side navigation labels 'My assistant', 'Candidates', 'Roles' unchanged. Keep footer 'Product concept · Fictional sample data'. Only change the sidebar label. Keep Candidates selected. Keep the entire import review form, table, duplicate comparison, notices and buttons unchanged.
 ```

diff --git a/docs/product/overseas-recruiter-agent-v1/README.md b/docs/product/overseas-recruiter-agent-v1/README.md
@@ -1,6 +1,6 @@
 # Hirelix 产品说明书交付包
 
-日期：2026-09-24 ｜ 版本：1.0
+日期：2026-09-24 ｜ 版本：1.1
 
 定位：**专业猎头的私人 Agent**。对外表达为 “Your private AI assistant. Built for headhunters.”
 
@@ -24,7 +24,7 @@
 
 文档涵盖产品定位、目标用户、调研依据、命名规范、完整使用过程、信息结构、六页详细交互、需求优先级、Agent 行为、数据关系、长期检索、两个英文客户材料样例、输入与集成、私人数据与分享、周期草稿、响应式体验、当前实现差距、实施顺序、验收场景、指标及待决定事项。
 
-所有页面图为内置 image_gen 生成的概念示意，人物、公司、数字及情境均为虚构。栏目已统一为 My assistant、Candidates、Roles、Client updates。旧版定位图片不在本包中。
+所有页面图为内置 image_gen 生成的概念示意，人物、公司、数字及情境均为虚构。主栏目为 My assistant、Candidates、Roles、Submissions。Submissions 集中管理候选人推荐；Search update 从对应 Role 发起，汇报历史保留在职位内。
 
 这份包是产品说明和设计资料，不是已上线功能清单。当前本地代码与目标范围的区别见第 22 章。具体业务规则以文字规格为准。引用材料及其证据边界见第 03 和第 27 章。
 
